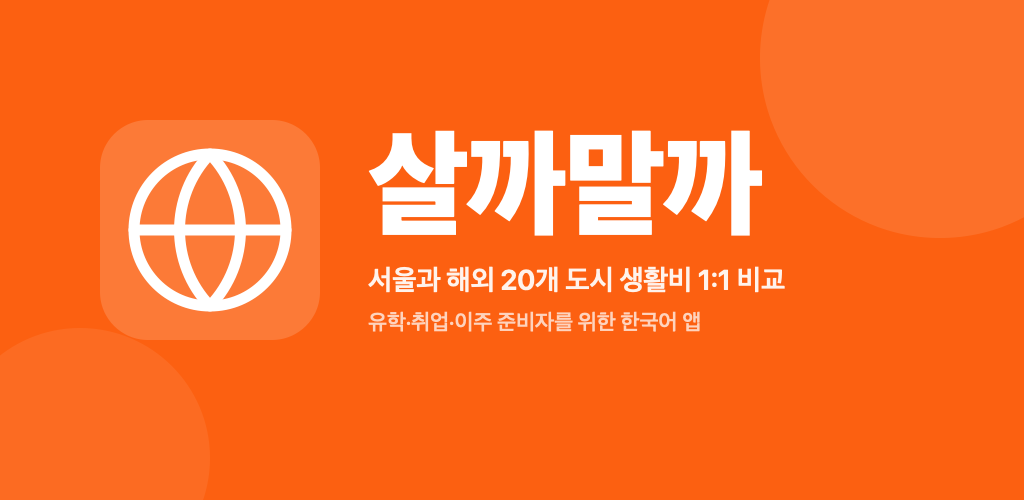
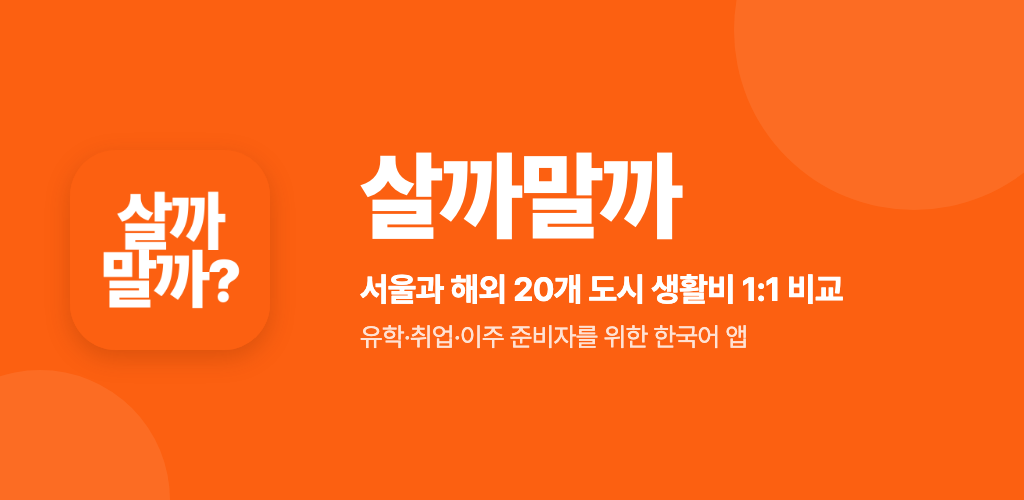
feat: 앱 아이콘·브랜딩(살까말까) 적용
- 온보딩 hero 아이콘을 globe 벡터 → 앱 아이콘 이미지(assets/icon.png,
  살까말까 마크)로 교체해 런처·스토어 아이콘과 일관성 확보
- splash backgroundColor #FFFFFF → #FC6011(오렌지)
- android versionCode 1 → 3
- icon / adaptive-icon / splash / feature-graphic / play-store 512 에셋 교체

Changed region(s): [[0.0938, 0.24, 0.3125, 0.69], [0.3438, 0.24, 0.75, 0.48], [0.3438, 0.51, 0.8438, 0.72]]

diff --git a/app/onboarding.tsx b/app/onboarding.tsx
@@ -15,11 +15,10 @@
 
 import * as React from 'react';
 
-import { ActivityIndicator, Pressable, ScrollView, View } from 'react-native';
+import { ActivityIndicator, Image, Pressable, ScrollView, View } from 'react-native';
 
 import { useRouter } from 'expo-router';
 
-import { Icon } from '@/components/Icon';
 import { RecentRow } from '@/components/RecentRow';
 import { RegionPill } from '@/components/RegionPill';
 import { Screen } from '@/components/Screen';
@@ -207,13 +206,13 @@ export default function OnboardingScreen(): React.ReactElement {
     <Screen scroll testID="onboarding-screen">
       {/* Hero section */}
       <View className="mt-6 gap-3">
-        {/* Hero icon */}
-        <View
-          className="w-14 h-14 rounded-hero-icon bg-orange items-center justify-center"
+        {/* Hero icon — 앱 아이콘(살까말까 마크)과 동일 (런처/스토어 아이콘과 일관) */}
+        <Image
+          source={require('../assets/icon.png')}
+          className="w-14 h-14 rounded-hero-icon"
           style={shadows.orangeCta}
-        >
-          <Icon name="globe" size={28} color={colors.white} strokeWidth={2.2} />
-        </View>
+          accessibilityLabel="살까말까"
+        />
 
         {/* Greeting */}
         <View className="gap-1">
